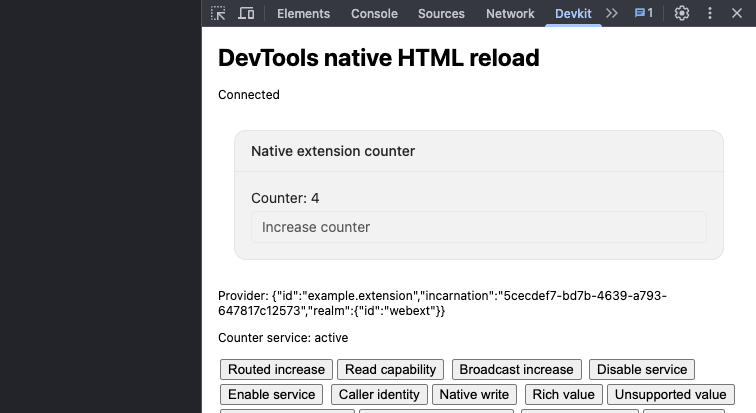
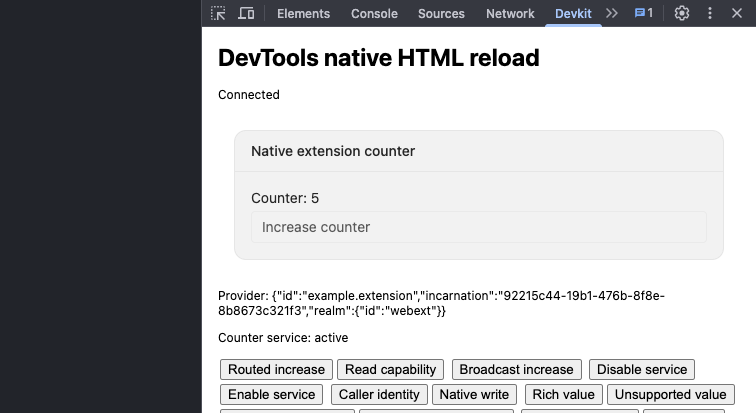
test(webext): verify native popup HTML reload (#13)

Changed region(s): [[0.2738, 0.7264, 0.6085, 0.7845], [0.6693, 0.6973, 0.8823, 0.7264], [0.3955, 0.4649, 0.4259, 0.4939]]

diff --git a/examples/webext/tests/firefox-popup-development.ts b/examples/webext/tests/firefox-popup-development.ts
@@ -1,5 +1,5 @@
 import assert from 'node:assert/strict';
-import { appendFile } from 'node:fs/promises';
+import { appendFile, readFile, writeFile } from 'node:fs/promises';
 import { Context } from 'selenium-webdriver/firefox.js';
 import type { Driver } from 'selenium-webdriver/firefox.js';
 
@@ -11,7 +11,7 @@ type PopupSnapshot = {
   buttons: number;
 };
 
-/** Observe the actual toolbar popup while WXT updates its existing panel module. */
+/** Observe the actual toolbar popup through native module and HTML updates. */
 export async function checkFirefoxPopupDevelopment(driver: Driver, fixture: string): Promise<void> {
   const provider = await driver.executeScript<string>(
     "return document.querySelector('#provider').textContent",
@@ -35,7 +35,7 @@ export async function checkFirefoxPopupDevelopment(driver: Driver, fixture: stri
     assert.notEqual(updated.caller, previous.caller);
     assert.equal(updated.counter, '4');
     assert.equal(updated.buttons, 1);
-    await increase(driver);
+    await increase(driver, 5);
     assert.equal(
       await popupScript(
         driver,
@@ -43,6 +43,8 @@ export async function checkFirefoxPopupDevelopment(driver: Driver, fixture: stri
       ),
       true,
     );
+    await checkHtmlReload(driver, fixture);
+    await increase(driver, 6);
   } finally {
     await driver.setContext(Context.CONTENT);
     await driver.executeScript("browser.extension.getViews({ type: 'popup' })[0]?.close()");
@@ -56,8 +58,37 @@ export async function checkFirefoxPopupDevelopment(driver: Driver, fixture: stri
         counter: document.querySelector('#renderer').shadowRoot.textContent.match(/Counter:\\s*(\\d+)/)?.[1],
       };`,
     ),
-    { provider, status: 'Connected', counter: '5' },
+    { provider, status: 'Connected', counter: '6' },
   );
+}
+
+async function checkHtmlReload(driver: Driver, fixture: string): Promise<void> {
+  const previous = await snapshot(driver);
+  const marker = crypto.randomUUID();
+  const htmlPath = `${fixture}/entrypoints/panel.html`;
+  await writeFile(
+    htmlPath,
+    (await readFile(htmlPath, 'utf8')).replace(
+      '</body>',
+      `<span hidden data-popup-reload="${marker}"></span></body>`,
+    ),
+  );
+  await driver.wait(
+    () =>
+      popupScript<boolean>(
+        driver,
+        `return !!document?.querySelector('[data-popup-reload="${marker}"]')
+          && document.querySelector('#status')?.textContent === 'Connected'`,
+      ),
+    30_000,
+  );
+  const reloaded = await snapshot(driver);
+  assert.notEqual(reloaded.timeOrigin, previous.timeOrigin);
+  assert.notEqual(reloaded.caller, previous.caller);
+  assert.equal(reloaded.provider, previous.provider);
+  assert.equal(reloaded.counter, previous.counter);
+  assert.equal(reloaded.buttons, 1);
+  assert.equal(await popupCount(driver), 1);
 }
 
 async function updateModule(driver: Driver, fixture: string): Promise<void> {
@@ -102,7 +133,7 @@ async function snapshot(driver: Driver): Promise<PopupSnapshot> {
   );
 }
 
-async function increase(driver: Driver): Promise<void> {
+async function increase(driver: Driver, counter: number): Promise<void> {
   const center = await popupScript<{ x: number; y: number }>(
     driver,
     `const button = document.querySelector('#renderer').shadowRoot.querySelector('button');
@@ -126,7 +157,8 @@ async function increase(driver: Driver): Promise<void> {
       driver.executeScript<boolean>(
         `const popup = browser.extension.getViews({ type: 'popup' })[0];
         return [document, popup?.document].every(page =>
-          page?.querySelector('#renderer')?.shadowRoot?.textContent.match(/Counter:\\s*(\\d+)/)?.[1] === '5');`,
+          page?.querySelector('#renderer')?.shadowRoot?.textContent.match(/Counter:\\s*(\\d+)/)?.[1] === arguments[0]);`,
+        String(counter),
       ),
     30_000,
   );

diff --git a/examples/webext/tests/chromium-popup-development.ts b/examples/webext/tests/chromium-popup-development.ts
@@ -1,10 +1,10 @@
 import assert from 'node:assert/strict';
-import { appendFile } from 'node:fs/promises';
+import { appendFile, readFile, writeFile } from 'node:fs/promises';
 import { join } from 'node:path';
 import { expect } from '@playwright/test';
 import type { Page } from '@playwright/test';
 
-/** Observe the actual toolbar popup through its native options-page peer during Vite HMR. */
+/** Observe the actual toolbar popup through its native options-page peer during native module and HTML updates. */
 export async function checkChromiumPopupDevelopment(page: Page, fixture: string): Promise<void> {
   await page.evaluate(() => chrome.action.openPopup());
   try {
@@ -41,12 +41,43 @@ export async function checkChromiumPopupDevelopment(page: Page, fixture: string)
     });
     await executions(page, '{"started":1,"completed":1}');
     assert.equal(await popupText(page, '#result'), caller);
+    await checkHtmlReload(page, fixture);
   } finally {
     await page.evaluate(() => chrome.extension.getViews({ type: 'popup' })[0]?.close());
     await expect
       .poll(() => page.evaluate(() => chrome.extension.getViews({ type: 'popup' }).length))
       .toBe(0);
   }
+}
+
+async function checkHtmlReload(page: Page, fixture: string): Promise<void> {
+  const before = await snapshot(page);
+  const previousCaller = await identity(page);
+  const path = join(fixture, 'entrypoints/panel.html');
+  const html = await readFile(path, 'utf8');
+  const heading = 'Popup native HTML reload';
+  const updated = html.replace(/<h1>[^<]+<\/h1>/u, `<h1>${heading}</h1>`);
+  assert.notEqual(updated, html);
+  await writeFile(path, updated);
+  await expect.poll(() => popupText(page, 'h1'), { timeout: 30_000 }).toBe(heading);
+  await expect(page.getByRole('heading', { name: heading })).toBeVisible();
+  await expect.poll(() => popupText(page, '#status')).toBe('Connected');
+  const after = await snapshot(page);
+  assert.notEqual(after.timeOrigin, before.timeOrigin);
+  assert.equal(after.provider, before.provider);
+  assert.equal(after.counter, before.counter);
+  assert.equal(after.form, '');
+  assert.equal(after.buttons, 1);
+  assert.notEqual(await identity(page), previousCaller);
+  await page.evaluate(() => {
+    chrome.extension
+      .getViews({ type: 'popup' })[0]!
+      .document.querySelector('#renderer')!
+      .shadowRoot!.querySelector('button')!
+      .click();
+  });
+  await expect(page.getByText('Counter: 3', { exact: true })).toBeVisible();
+  await expect.poll(async () => (await snapshot(page)).counter).toBe('3');
 }
 
 async function updateModule(page: Page, fixture: string): Promise<void> {

diff --git a/examples/webext/tests/firefox-development.ts b/examples/webext/tests/firefox-development.ts
@@ -72,6 +72,7 @@ await writeFile(
         'Panel module HMR preserves document, provider and state; replaces caller; invokes each action once',
         'HTML reload replaces document while retaining provider and state',
         'Native toolbar popup module HMR preserves document, provider and state; replaces caller; one pointer action reaches the peer; popup closes cleanly',
+        'Native toolbar popup HTML reload replaces document and caller, retains provider/state and invokes one pointer JSON action observed by the peer',
         'Native DevTools panel module HMR retains document and HTML reload replaces it; both replace caller, retain provider/state and invoke one JSON action observed by the peer; native close removes the toolbox',
         'Native sidebar module HMR retains document and HTML reload replaces it; both replace caller, retain provider/state and invoke one pointer JSON action observed by the peer; native close removes the view',
         'Background reload closes old extension page; new page receives new incarnation and reset state',

diff --git a/examples/webext/tests/chromium-host-development.ts b/examples/webext/tests/chromium-host-development.ts
@@ -38,7 +38,7 @@ async function checkDevtools(options: Page, fixture: string): Promise<void> {
       inspectedId: targetInfo.targetId,
       origin: `${protocol}//${host}`,
     });
-    await checkUpdates({ options, panel: panel.panel, fixture, name: 'DevTools', counter: 2 });
+    await checkUpdates({ options, panel: panel.panel, fixture, name: 'DevTools', counter: 3 });
     await screenshot(panel.frontend, 'devtools');
     await closeDevtoolsPanel(control, panel);
     assert.equal(inspected.isClosed(), false);
@@ -56,7 +56,7 @@ async function checkSidebar(options: Page, fixture: string): Promise<void> {
   const host = { options, control, windowId };
   try {
     const sidebar = await openChromiumSidebar(host);
-    await checkUpdates({ options, panel: sidebar.panel, fixture, name: 'Sidebar', counter: 4 });
+    await checkUpdates({ options, panel: sidebar.panel, fixture, name: 'Sidebar', counter: 5 });
     await screenshot(sidebar.panel, 'sidebar');
     await closeChromiumSidebar(host, sidebar);
   } finally {

diff --git a/examples/webext/tests/chromium-development.ts b/examples/webext/tests/chromium-development.ts
@@ -92,6 +92,7 @@ await writeFile(
         'Config edit closes the original browser and adopts manifest 0.0.2 in a new provider',
         'Actual popup HMR retains document, form and state with a fresh caller and one JSON action effect',
         'Pre-HMR popup work completes once without overwriting the replacement result',
+        'Actual popup HTML reload replaces document and caller, resets local form, retains provider/state and invokes one JSON action observed by options',
         'Actual DevTools panel module HMR retains document and state; HTML reload replaces document; each JSON action reaches options once',
         'Actual browser sidebar module HMR retains document and state; HTML reload replaces document; each JSON action reaches options once',
         'Native stop closes browser',

diff --git a/examples/webext/README.md b/examples/webext/README.md
@@ -70,7 +70,7 @@ flowchart LR
 
 The shared browser scenario in `tests/native-surfaces.ts` runs through both maintained production suites. It uses native `runtime.openOptionsPage`, `action.openPopup` and `extension.getViews({ type: 'popup' })`. From the surviving options document, it inspects and clicks the actual popup DOM, including its native JSON renderer. It never substitutes an ordinary tab for a popup or adds application test hooks. Firefox invalidates closed-window references, so closure is observed through the native view registry.
 
-The retained screenshots show the surviving options page after the popup checks, not a recreated popup. Popup sizing is asserted on the actual window, including absence of horizontal overflow. This proves packaged popup/options behavior. It does not claim popup-specific HMR, background suspension or cross-provider JSON action dispatch. Those remain separate work.
+The retained screenshots show the surviving options page after the popup checks, not a recreated popup. Popup sizing is asserted on the actual window, including absence of horizontal overflow. This proves packaged popup/options behavior. The development checks below cover popup module HMR and HTML reload separately. Background suspension and cross-provider JSON action dispatch remain open.
 
 ## Native DevTools panel
 
@@ -140,16 +140,16 @@ WXT owns the Vite development server, browser process, HMR and native extension 
 
 On the first Chromium launch, open `chrome://extensions` and enable **Developer mode**. Let Chrome save the setting before restarting it. The native runner retains this setup under `.wxt/chromium-profile`, separate from your ordinary browser profile. Disabling Developer mode can cause Chrome to disable the extension on a background reload. No protected preference values or policy controls are written by this example. Browser executable overrides use WXT's native `webExt.binaries` configuration.
 
-| Edit                  | Native behavior                                       | Observed state                                                                                     |
-| --------------------- | ----------------------------------------------------- | -------------------------------------------------------------------------------------------------- |
-| Panel TypeScript      | Vite module replacement, old panel resources disposed | Same document/provider and native state, new connection in tabs, popup, DevTools and sidebar       |
-| Panel HTML            | Full page reload                                      | New document, same provider/state in tabs, DevTools and sidebar; popup-specific check remains open |
-| Background entrypoint | Extension reload; reopen the options page afterward   | New provider, reset ephemeral state, no automatic replay                                           |
-| WXT configuration     | Native browser/server restart                         | Old browser exits; manifest changes take effect; new provider and reset ephemeral state            |
+| Edit                  | Native behavior                                       | Observed state                                                                               |
+| --------------------- | ----------------------------------------------------- | -------------------------------------------------------------------------------------------- |
+| Panel TypeScript      | Vite module replacement, old panel resources disposed | Same document/provider and native state, new connection in tabs, popup, DevTools and sidebar |
+| Panel HTML            | Full page reload                                      | New document/caller, same provider/state in tabs, popup, DevTools and sidebar                |
+| Background entrypoint | Extension reload; reopen the options page afterward   | New provider, reset ephemeral state, no automatic replay                                     |
+| WXT configuration     | Native browser/server restart                         | Old browser exits; manifest changes take effect; new provider and reset ephemeral state      |
 
 The maintained live tests use temporary copies of this example and disposable browser profiles. They drive the actual native JSON renderer through module, HTML, background and configuration changes in both browsers. The configuration check edits the application version from `0.0.1` to `0.0.2`, proves the old browser exits, then verifies the replacement manifest, new provider, reset counter and working action. Final native shutdown must also close the replacement browser. The retained [Chromium receipt](./evidence/development/chromium/receipt.json) and [Firefox receipt](./evidence/development/firefox/receipt.json) record passing runs on Chromium 153.0.8010.12 and Firefox 156.0.1. Chromium also checks a pending old command cannot overwrite replacement UI and confirms no page errors. Firefox observes native process shutdown; it does not claim global browser-error capture. Chromium verifies its native Developer mode setting survives restart. The test reads the platform's actual preference store and never writes protected values. Earlier frozen experiments retain the detailed listener/Port-count and upstream-runner comparisons.
 
-Actual toolbar popups also receive module HMR in both browsers. The native `action.openPopup()` and `extension.getViews({ type: 'popup' })` APIs identify the real popup. A source edit retains its document and provider, replaces its Port caller, and leaves one working JSON action with current native state. Chromium additionally checks local form retention and completion of pre-update work without overwriting the replacement result. Closing removes the popup from native view enumeration. These checks add no application hooks, reload manager or dependency patch.
+Actual toolbar popups also receive module HMR and HTML reload in both browsers. The native `action.openPopup()` and `extension.getViews({ type: 'popup' })` APIs identify the real popup. A source edit retains its document and provider, replaces its Port caller, and leaves one working JSON action with current native state. Chromium additionally checks local form retention and completion of pre-update work without overwriting the replacement result. An HTML edit keeps the popup open but replaces its document/caller, retains provider/state, and leaves one JSON action whose effect reaches options once. Chromium also verifies the local form resets on HTML reload. Closing removes the popup from native view enumeration. These checks use the installed native WXT behavior and add no application hooks, reload manager or further dependency patch.
 
 Actual DevTools panels and browser sidebars now exercise both module HMR and HTML reload in both browsers. Module updates retain the document/provider/state with a fresh caller. HTML updates replace the document/caller while retaining provider/state. Each update leaves one renderer button whose action reaches the options peer once. Chromium also checks that local form input survives HMR and resets on HTML reload. Native host close removes the panel or sidebar afterward.
 
@@ -169,7 +169,7 @@ The Firefox test attaches to the browser WXT opened. Its isolated automation ses
 
 On Linux CI only, the Chromium development test passes `--no-sandbox`, matching Playwright's existing test-launch default. The Ubuntu runner rejects the downloaded Chromium sandbox before CDP startup. This flag applies only to the disposable automated browser; the normal WXT development commands keep Chromium's default sandbox behavior. Native launch crashes print the owned browser's stderr before exiting.
 
-The exact dependency corrections and removal gates are in the [patch inventory](../../patches/README.md#wxt-development-tooling). Content/page updates, repeated rapid changes, popup-specific HTML reload, popup/DevTools/sidebar background/config transitions and watched production remain open.
+The exact dependency corrections and removal gates are in the [patch inventory](../../patches/README.md#wxt-development-tooling). Content/page updates, repeated rapid changes, popup/DevTools/sidebar background/config transitions and watched production remain open.
 
 ## Explicit native server connections
 

diff --git a/docs/planning/013-live-preview-reload.md b/docs/planning/013-live-preview-reload.md
@@ -41,10 +41,10 @@ All 26 lifecycle-hook tests, affected-package build/type checks, changed-file li
 
 The [extension example](../../examples/webext/README.md#native-development-commands) delegates development to WXT and Vite with the existing exact-version compatibility patches. Both maintained browser suites exercise real module HMR, HTML reload, background reload, configuration restart and native shutdown in disposable profiles. Background reload resets the example's ephemeral state; configuration restart replaces the actual browser. Neither path restores state or replays work through an SDK controller.
 
-Actual toolbar popup module replacement is verified in both browsers as well. The same native document/provider survives, a new Port caller replaces the old one, current native state is retained and one JSON action produces one update. Chromium additionally verifies retained local form input and that an old pending action completes without overwriting the replacement UI. The receipts and native automation boundaries are recorded in the example.
+Actual toolbar popup module replacement and HTML reload are verified in both browsers as well. During module replacement the same native document/provider survives, a new Port caller replaces the old one, current native state is retained and one JSON action produces one update. Chromium additionally verifies retained local form input and that an old pending action completes without overwriting the replacement UI. HTML reload keeps the popup open with a fresh document/caller and the same provider/state, followed by one JSON action effect observed by options. Chromium verifies local form reset. The receipts and native automation boundaries are recorded in the example.
 
 The actual DevTools panel and browser sidebar also pass module HMR and HTML reload in both maintained browsers. Their provider/state remain native; module updates keep the document with a new caller, and HTML reloads create a new document/caller. Each post-update JSON action reaches the options peer once. The Chromium tests additionally cover retained/reset local forms.
 
 This exposed WXT reloading unchanged sibling HTML, which removes Firefox's DevTools tab when the registration page reloads. The [HTML reload correction](../research/wxt-html-reload.md) compares emitted output before/after rebuild and keeps native reload behavior for changed or unreadable output. It introduces no SDK recovery. The retained failure/isolation receipts and real-build transform/missing-output regression define its removal gate.
 
-Popup-specific HTML reload, popup/DevTools/sidebar background/config transitions, direct DevTools registration changes, content/page updates, rapid edits and watched-production extension behavior remain open. Cross-provider JSON action routing still needs the separate [renderer seam decision](./012-json-routing-seam.md).
+Popup/DevTools/sidebar background/config transitions, direct DevTools registration changes, content/page updates, rapid edits and watched-production extension behavior remain open. Cross-provider JSON action routing still needs the separate [renderer seam decision](./012-json-routing-seam.md).
